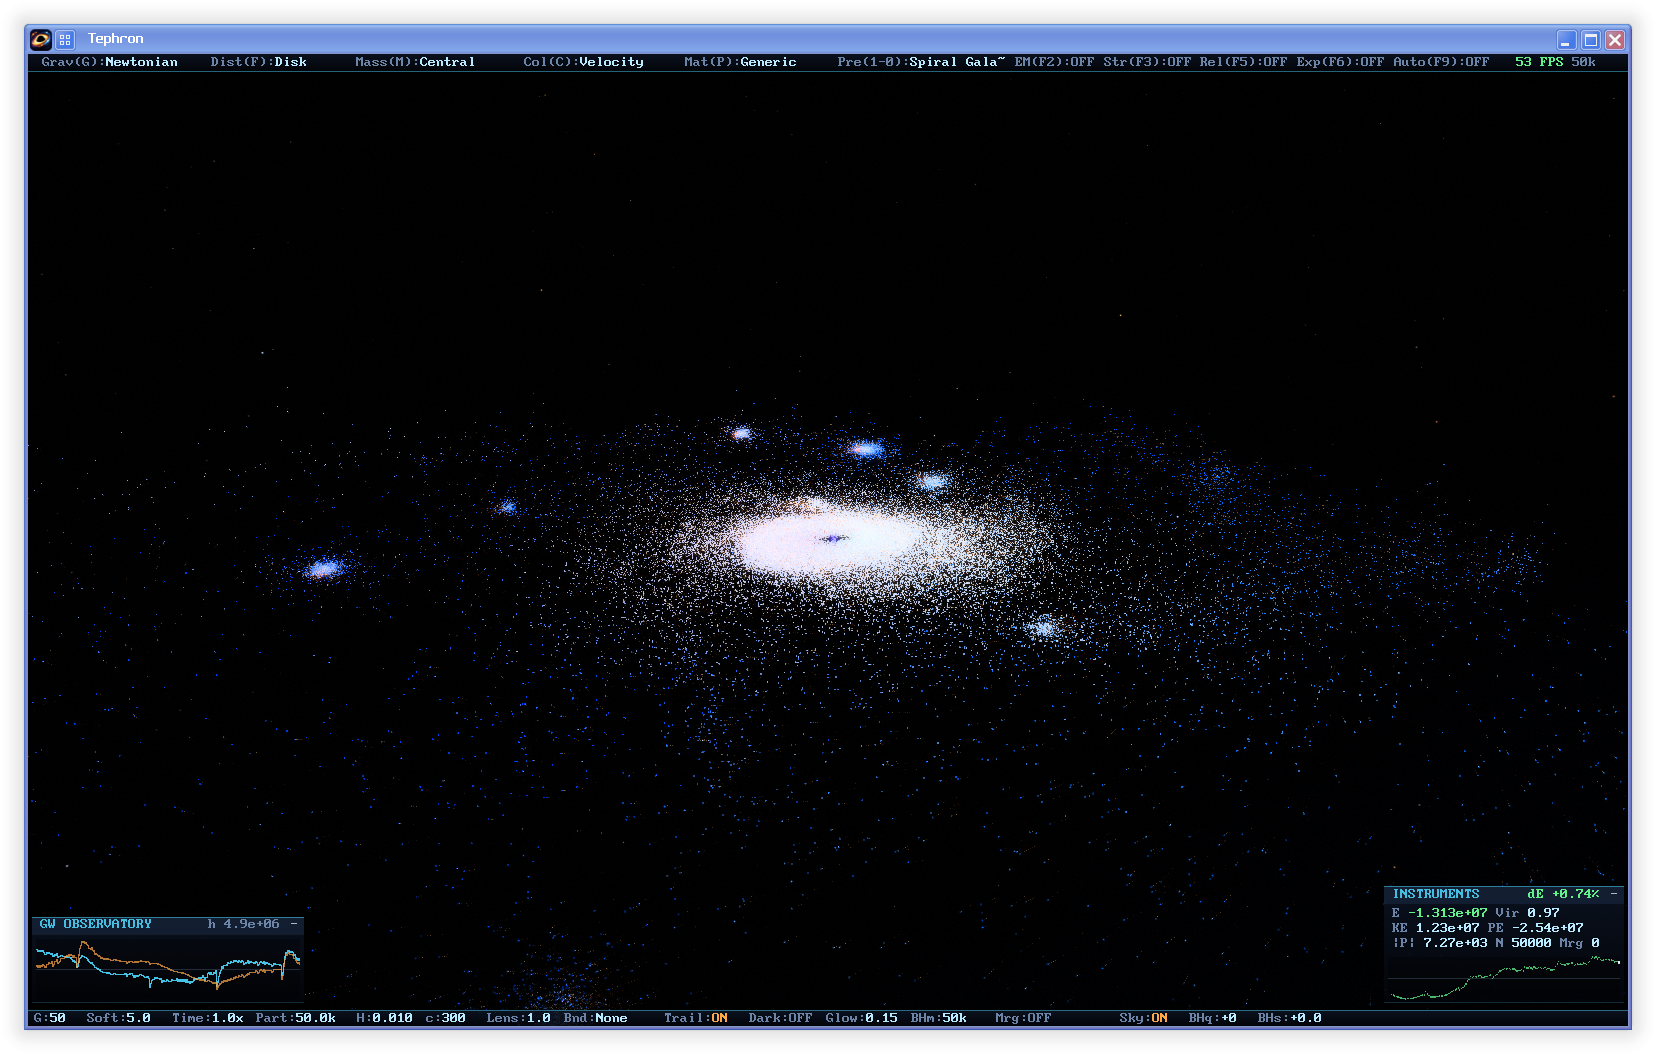
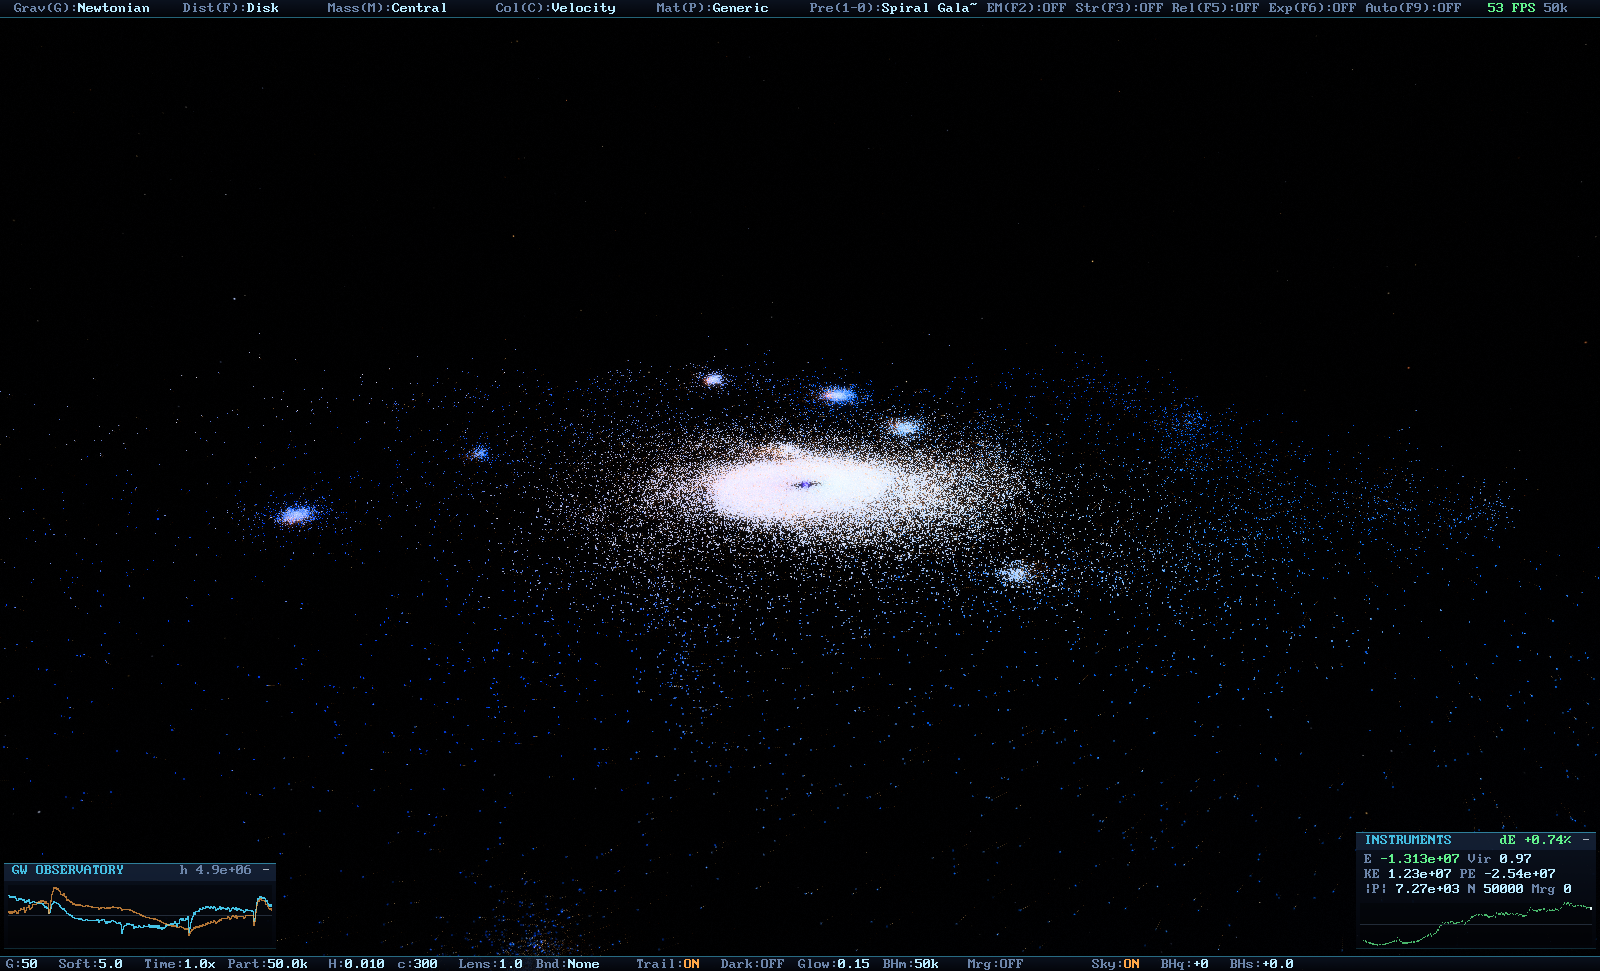
Add black-hole capture-boundary gallery video
Trim the new recording to its final 11.4 seconds, remove audio and descriptive metadata, add a lossless animated preview, and publish the refreshed galaxy screenshot at a uniform gallery size.

diff --git a/README.md b/README.md
@@ -8,7 +8,7 @@
 
 ## Demo of Gravitational Lensing
 
-[![An edge-on feeding quasar](assets/gallery/edge-on-quasar.webp)](assets/gallery/edge-on-quasar.mp4)
+<a href="assets/gallery/edge-on-quasar.mp4"><img src="assets/gallery/edge-on-quasar.webp" alt="An edge-on feeding quasar" width="640" height="400"></a>
 
 *An edge-on feeding quasar, with the photon ring emerging entirely from lensed matter. Nothing here is painted: every ray is real simulated matter, bent by the point-mass lens equation in the composite pass. Click for the full-resolution, 60 FPS, silent video.*
 
@@ -17,17 +17,21 @@
 Animated previews are lossless WebP; click one for the full-resolution,
 60 FPS, silent video.
 
-[![A black hole disrupting a spiral galaxy](assets/gallery/spiral-black-hole.webp)](assets/gallery/spiral-black-hole.mp4)
+<a href="assets/gallery/spiral-black-hole.mp4"><img src="assets/gallery/spiral-black-hole.webp" alt="A black hole disrupting a spiral galaxy" width="640" height="400"></a>
 
 *A black hole disrupting a spiral galaxy — live GW strain traces bottom-left.*
 
-![A spiral galaxy seen obliquely](assets/gallery/galaxy-screenshot.png)
+<img src="assets/gallery/galaxy-screenshot.png" alt="A spiral galaxy seen obliquely" width="640" height="400">
 
 *A 50,000-particle spiral galaxy seen obliquely, with live conservation and gravitational-wave instruments.*
 
-[![A swarm of black holes in a stellar halo](assets/gallery/black-hole-swarm.webp)](assets/gallery/black-hole-swarm.mp4)
+<a href="assets/gallery/black-hole-swarm.mp4"><img src="assets/gallery/black-hole-swarm.webp" alt="A swarm of black holes in a stellar halo" width="640" height="400"></a>
 
 *A black-hole swarm carving through a stellar halo.*
+
+<a href="assets/gallery/black-hole-brink.mp4"><img src="assets/gallery/black-hole-brink.webp" alt="One black hole on the brink of swallowing another" width="640" height="400"></a>
+
+*One black hole skims the capture boundary of another, on the brink of being swallowed.*
 
 ## Features
 